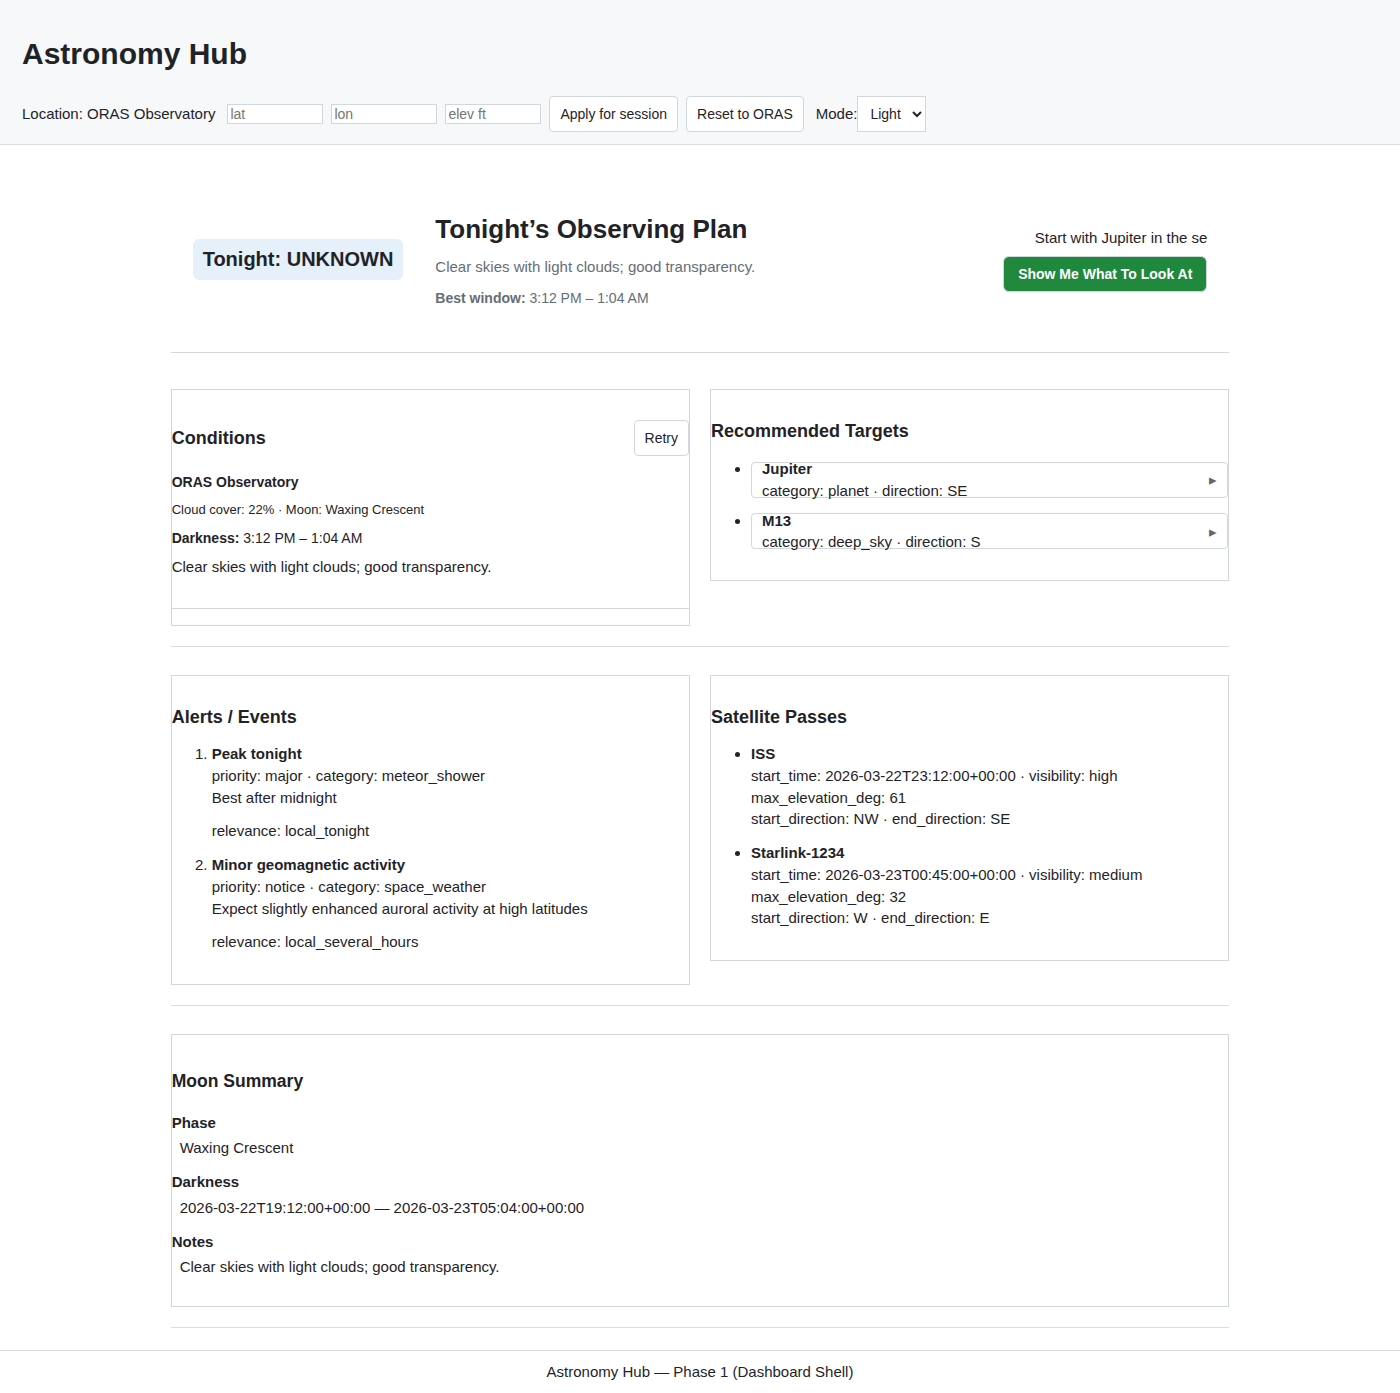
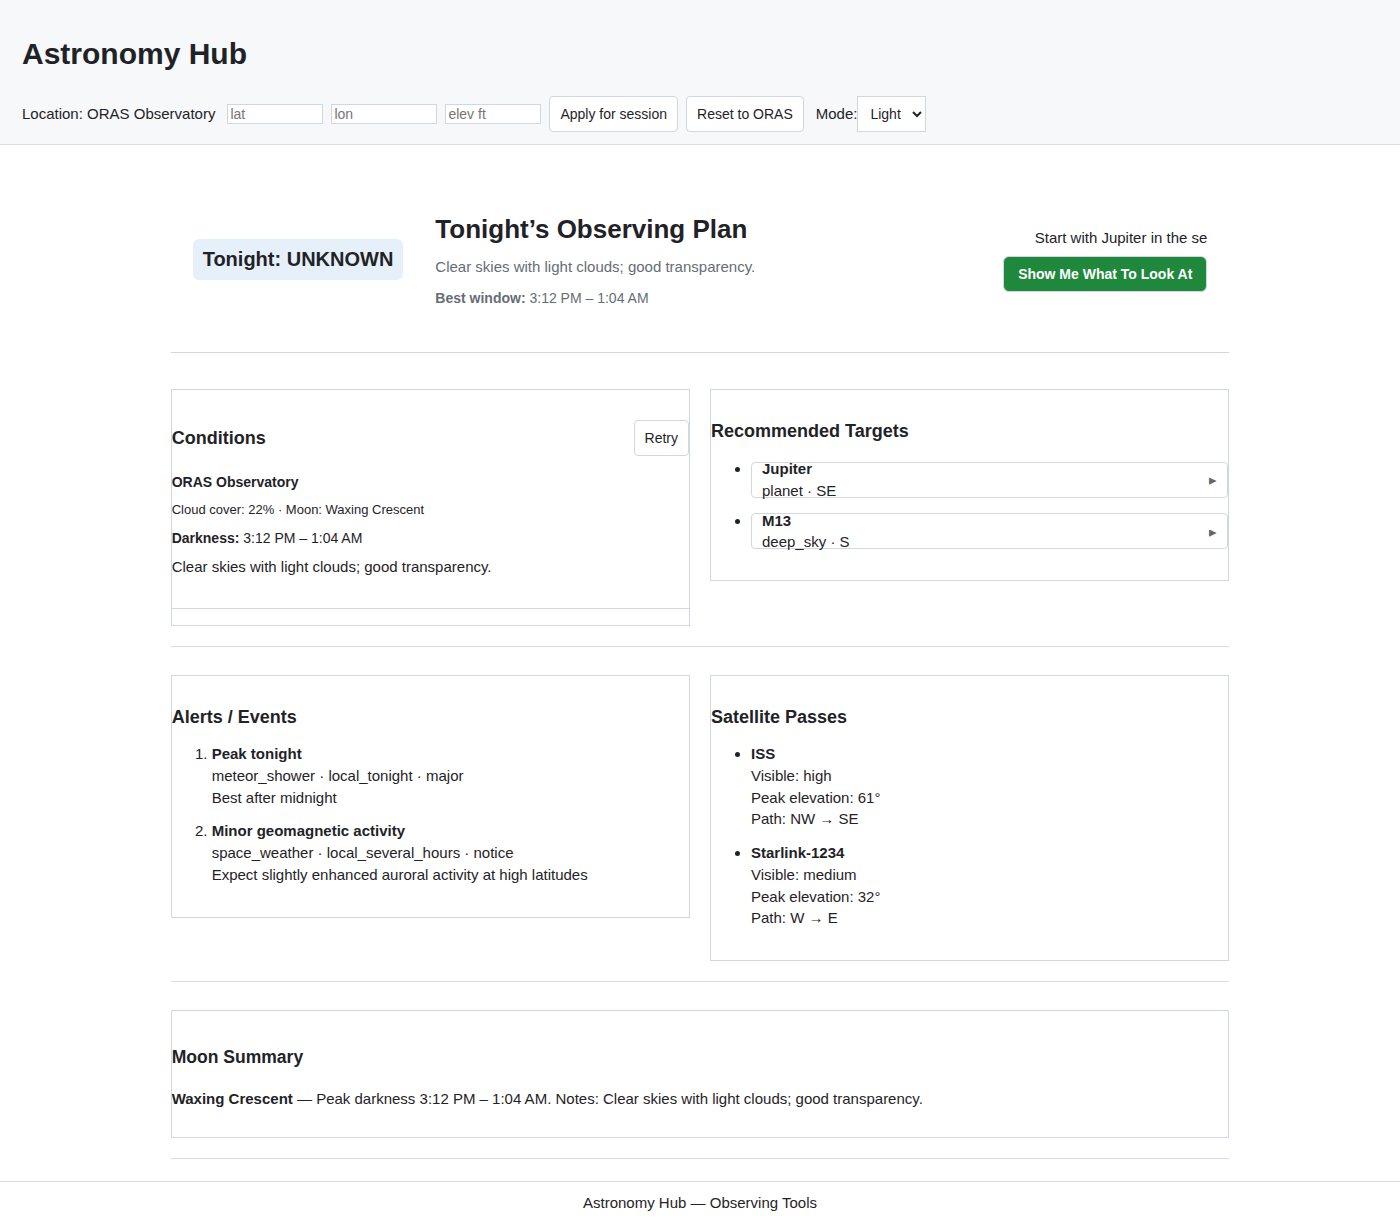
feat(ui): friendlier presentation for conditions/targets/alerts/passes/moon; update footer and screenshots

diff --git a/frontend/src/components/MoonSummary.jsx b/frontend/src/components/MoonSummary.jsx
@@ -1,6 +1,16 @@
 /* eslint-disable react/prop-types */
 import React, { useEffect, useState } from 'react'
 
+function fmtTimeShort(iso) {
+  try {
+    if (!iso) return 'N/A'
+    const d = new Date(iso)
+    return d.toLocaleTimeString([], { hour: 'numeric', minute: '2-digit', hour12: true })
+  } catch (e) {
+    return 'N/A'
+  }
+}
+
 export default function MoonSummary({ locationQuery = '' }) {
   const [loading, setLoading] = useState(true)
   const [error, setError] = useState(null)
@@ -60,26 +70,16 @@ export default function MoonSummary({ locationQuery = '' }) {
 
   const { moon_phase, darkness_window, summary } = data
 
+  const darknessText = darkness_window?.start && darkness_window?.end
+    ? `${fmtTimeShort(darkness_window.start)} – ${fmtTimeShort(darkness_window.end)}`
+    : 'Not available'
+
+  const note = summary ? ` Notes: ${summary}` : ''
+
   return (
     <div className="component moon-summary">
       <h3>Moon Summary</h3>
-
-      <dl>
-        <dt>Phase</dt>
-        <dd>{moon_phase}</dd>
-
-        <dt>Darkness</dt>
-        <dd>
-          {darkness_window?.start || '—'} — {darkness_window?.end || '—'}
-        </dd>
-
-        {summary ? (
-          <>
-            <dt>Notes</dt>
-            <dd>{summary}</dd>
-          </>
-        ) : null}
-      </dl>
+      <p className="moon-line"><strong>{moon_phase || 'Unknown'}</strong> — Peak darkness {darknessText}.{note}</p>
     </div>
   )
 }

diff --git a/frontend/src/components/SatellitePasses.jsx b/frontend/src/components/SatellitePasses.jsx
@@ -46,9 +46,9 @@ export default function SatellitePasses({ locationQuery = '' }) {
           {passes.map((p, idx) => (
             <li key={(p.object_name || '') + (p.start_time || '') || idx} className="pass-item">
               <strong>{p.object_name}</strong>
-              <div className="small">start_time: {p.start_time} · visibility: {p.visibility}</div>
-              <div className="small">max_elevation_deg: {p.max_elevation_deg}</div>
-              <div className="small">start_direction: {p.start_direction} · end_direction: {p.end_direction}</div>
+              <div className="small">Visible: {p.visibility}</div>
+              <div className="small">Peak elevation: {p.max_elevation_deg}{p.max_elevation_deg ? '°' : ''}</div>
+              <div className="small">Path: {p.start_direction} → {p.end_direction}</div>
             </li>
           ))}
         </ul>

diff --git a/frontend/src/components/AlertsEvents.jsx b/frontend/src/components/AlertsEvents.jsx
@@ -46,9 +46,8 @@ export default function AlertsEvents({ locationQuery = '' }) {
           {alerts.map((a, idx) => (
             <li key={a.title || idx} className="alert-item">
               <strong>{a.title}</strong>
-              <div className="small">priority: {a.priority} · category: {a.category}</div>
+              <div className="small muted-meta">{a.category} · {a.relevance} · {a.priority}</div>
               <p>{a.summary}</p>
-              <div className="small">relevance: {a.relevance}</div>
             </li>
           ))}
         </ol>

diff --git a/frontend/src/components/TargetRow.jsx b/frontend/src/components/TargetRow.jsx
@@ -8,7 +8,7 @@ export default function TargetRow({ target }) {
     <div className="target-summary">
       <strong>{target.name}</strong>
       <div className="small">
-        <span>category: {target.category}</span> · <span>direction: {target.direction}</span>
+        {target.category} · {target.direction}
       </div>
     </div>
   )

diff --git a/frontend/src/App.jsx b/frontend/src/App.jsx
@@ -209,7 +209,7 @@ export default function App() {
         </section>
       </main>
 
-      <footer className="app-footer">Astronomy Hub — Phase 1 (Dashboard Shell)</footer>
+      <footer className="app-footer">Astronomy Hub — Observing Tools</footer>
     </div>
   )
 }
